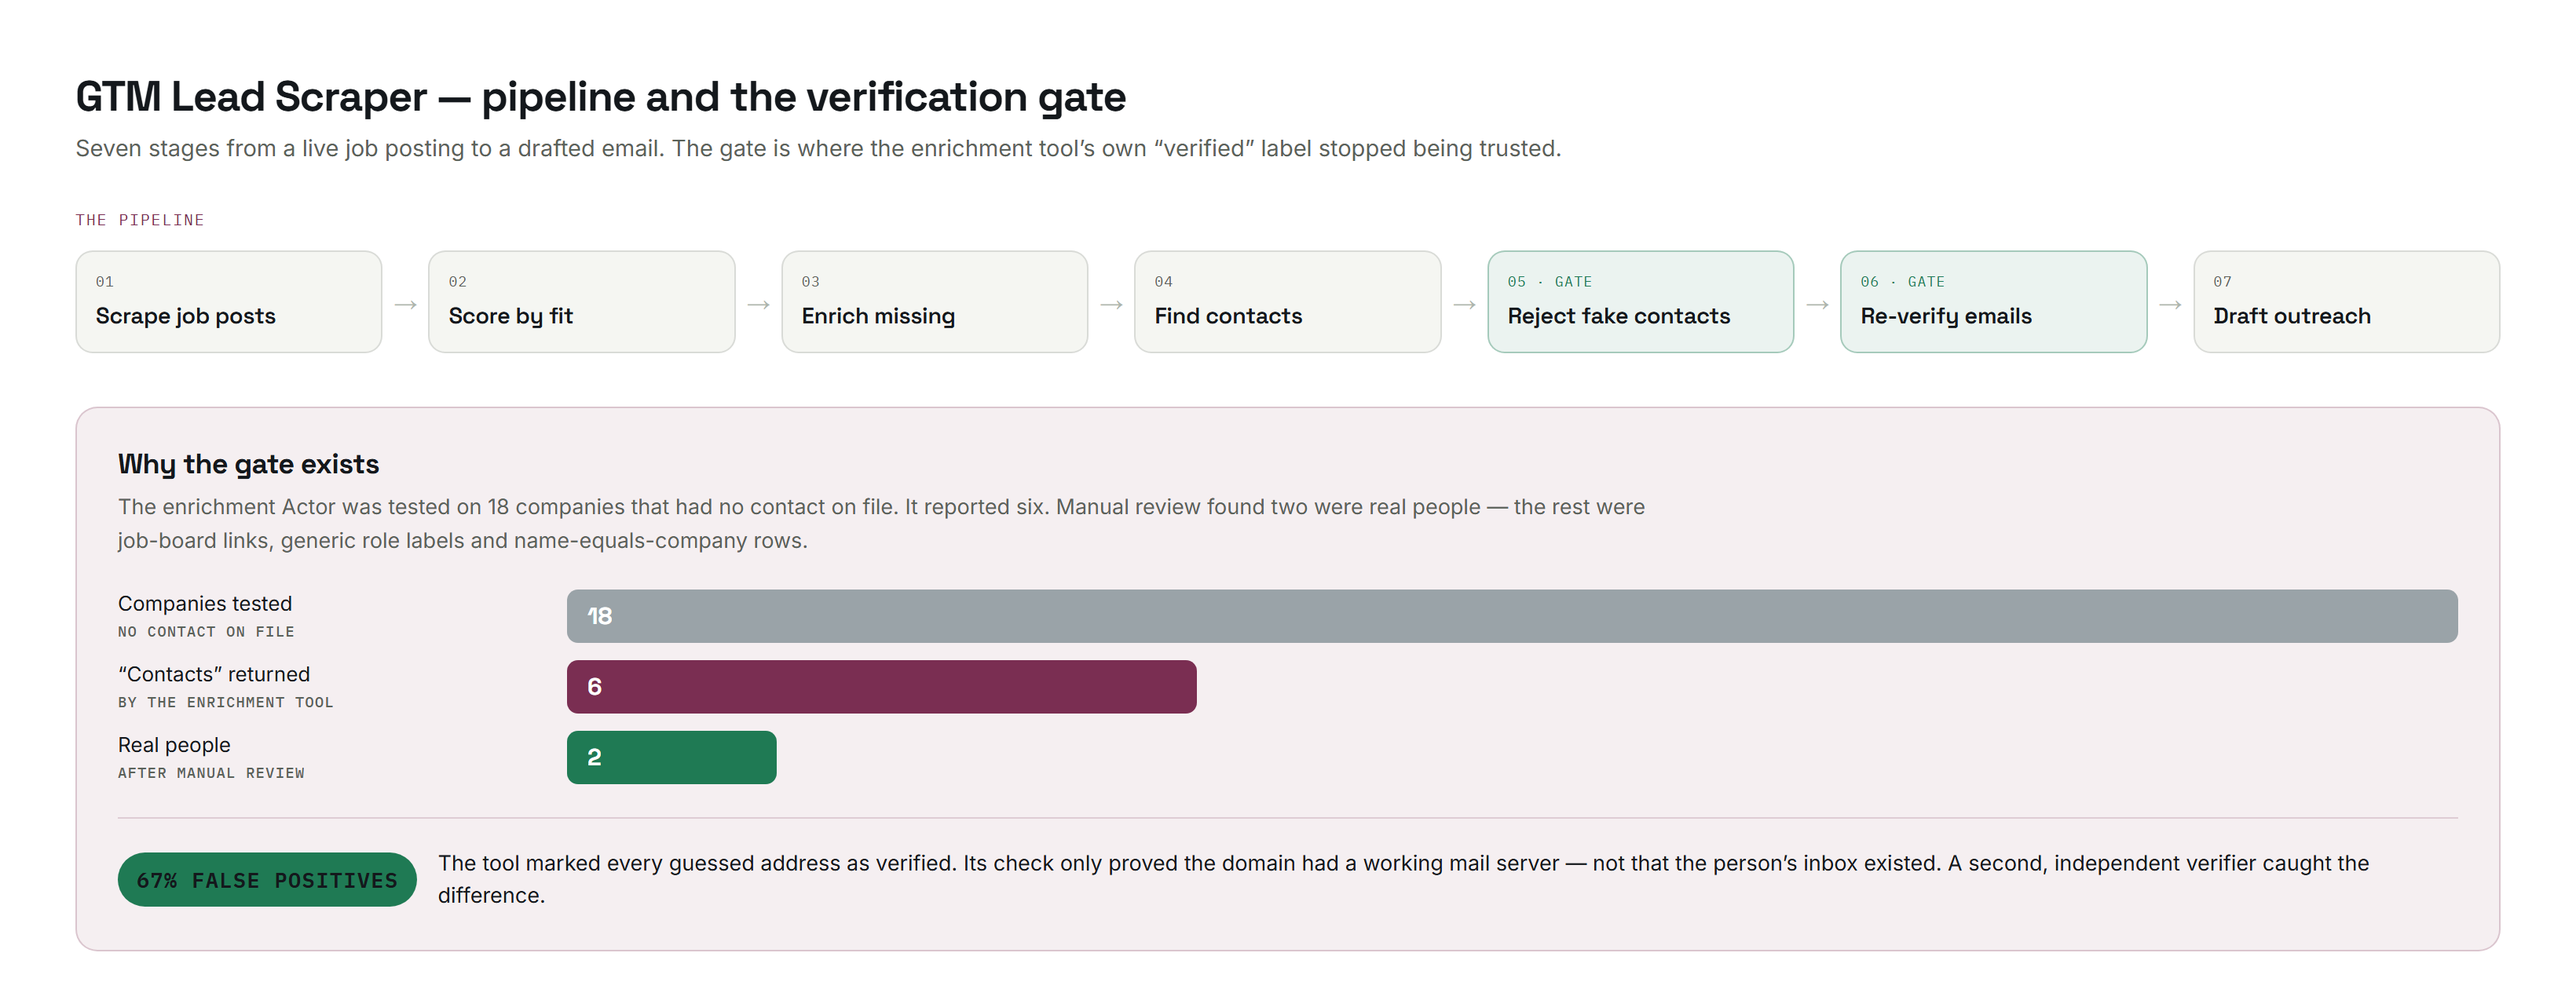
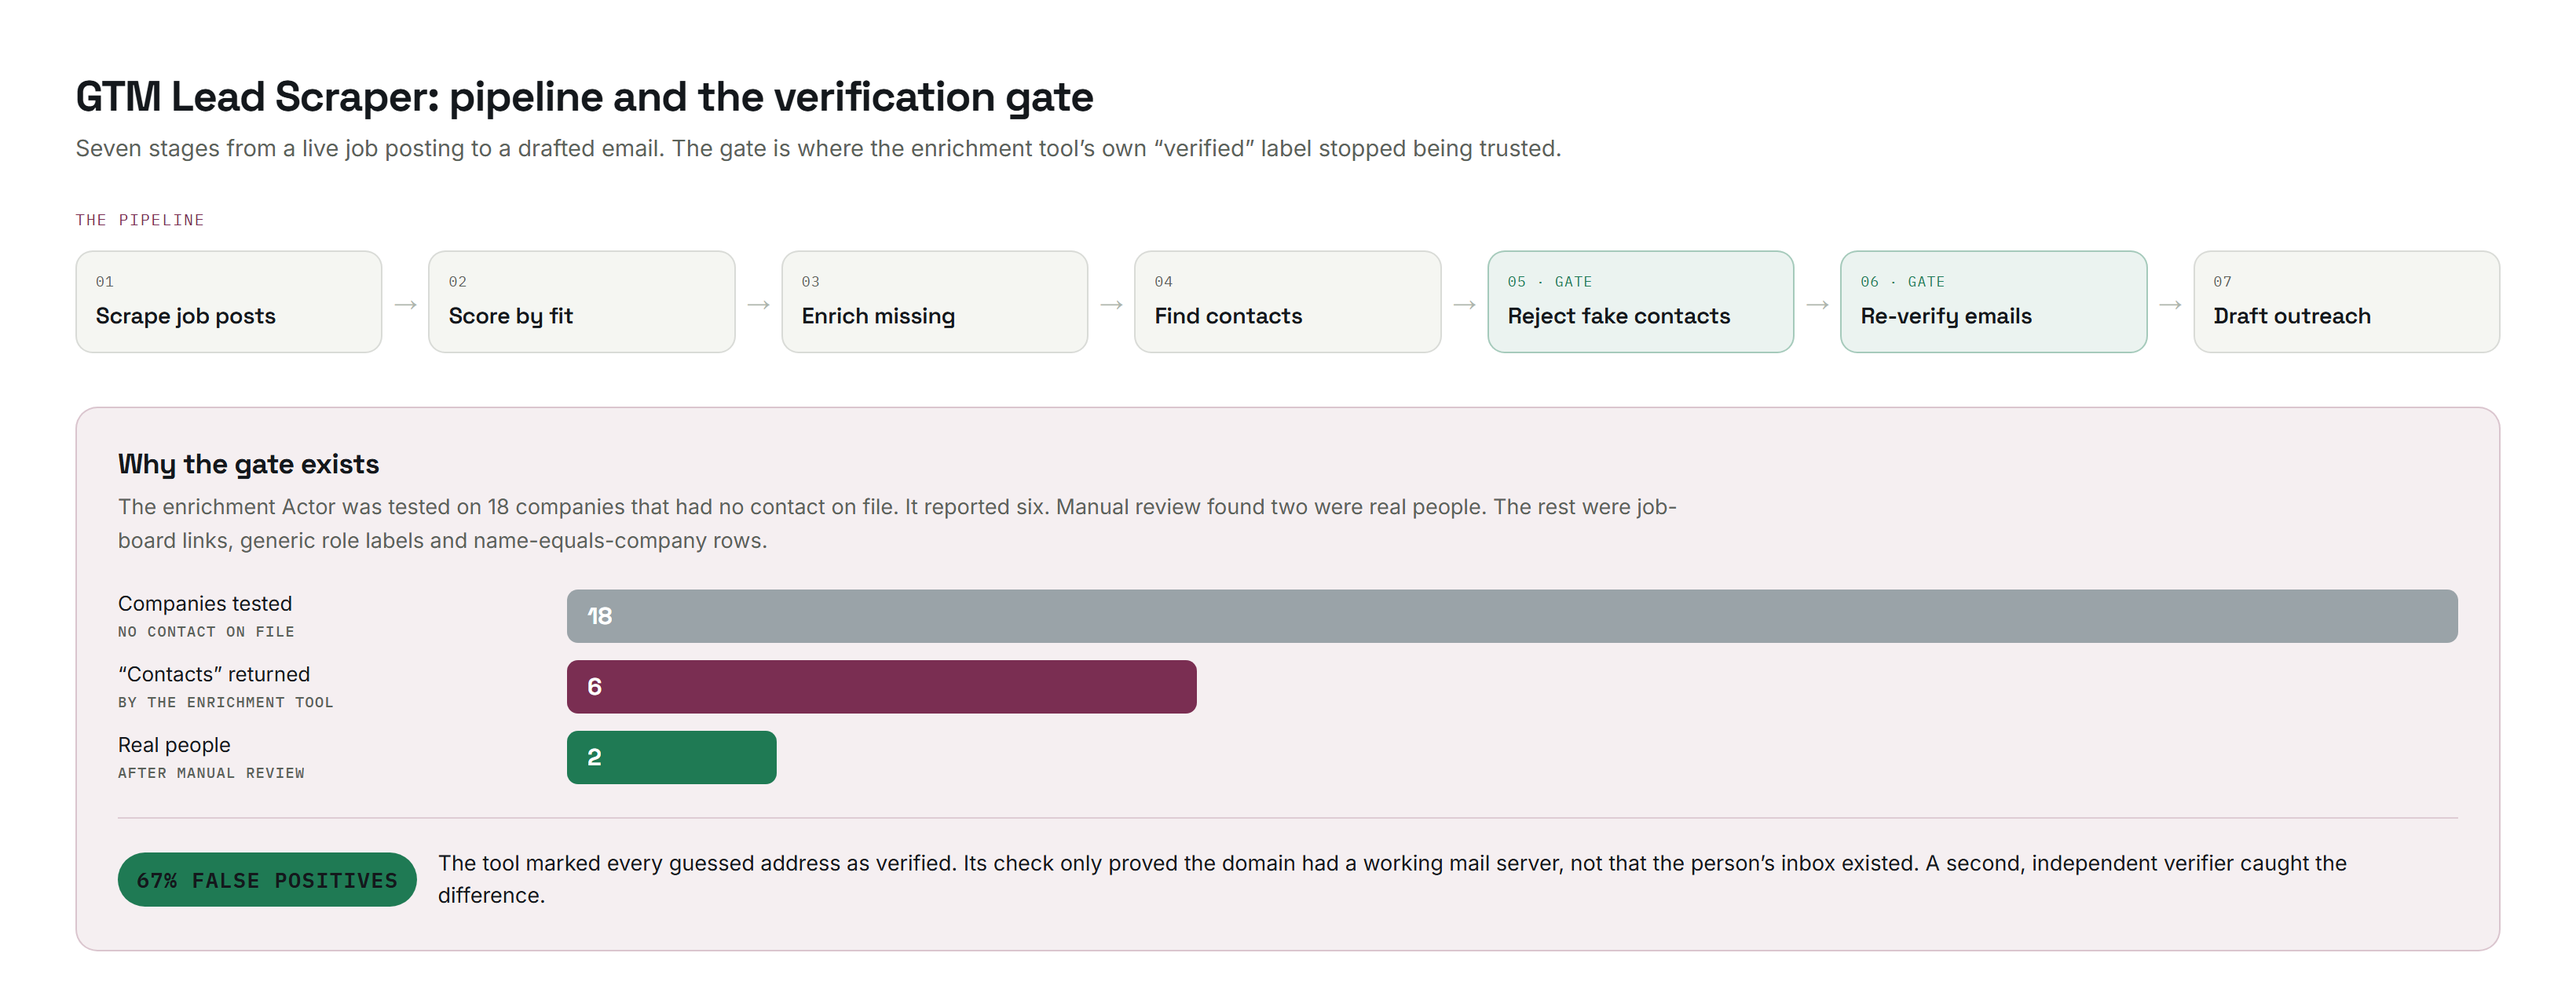
Drop the em dashes from the site copy
Em dashes read as AI boilerplate, so every one is gone: eight in the
markup and three baked into the pipeline diagram, which is re-rendered.

The sentences were rewritten rather than having the character swapped
out, so the parentheticals became colons, commas or separate sentences
and nothing reads clipped.

diff --git a/index.html b/index.html
@@ -1168,17 +1168,17 @@
           <h2 class="case-h2">How I built it</h2>
           <ul class="case-bullets">
             <li>Pulled the raw list out of AI Ark: 8,079 contacts, every title and company size included.</li>
-            <li>Screened for deliverability first &mdash; email status and SMTP checks &mdash; so no copy was written for an address that would bounce.</li>
+            <li>Screened for deliverability first, running email status and SMTP checks, so no copy was written for an address that would bounce.</li>
             <li>Filtered to nonprofit company type, dropping the vendors and other organisation types the same export had swept in.</li>
-            <li>Narrowed to decision-maker titles only &mdash; CEO, Executive Director, Director, Founder, VP &mdash; because that is where budget authority sits.</li>
+            <li>Narrowed to decision-maker titles only: CEO, Executive Director, Director, Founder, VP. That is where budget authority sits.</li>
             <li>Collapsed duplicates so each organisation appears once instead of several times, which left roughly 2,000 contacts worth emailing.</li>
             <li>Hand-checked a small sample and rendered the real copy against it before anything went near a sequencer.</li>
-            <li>Wrote three competing angles &mdash; lapsed donors, time saved, peer comparison &mdash; so the angle could be tested rather than guessed.</li>
+            <li>Wrote three competing angles: lapsed donors, time saved, peer comparison. That way the angle could be tested rather than guessed.</li>
             <li>Drafted three tone variants of the same email (direct, story, mission) so voice could be tested separately from angle.</li>
             <li>Generated the subject and body straight into the export as <code>subject_1</code> and <code>email_1</code> columns, so the file imports into Instantly or Smartlead without hand-editing.</li>
             <li>Built a reply-triage agent in n8n that classifies every reply as POSITIVE, NEGATIVE, REFERRAL, LATER, AUTO_REPLY or NEUTRAL.</li>
             <li>Routed positives to Slack for a same-day response; everything else logs to a sheet, and negatives are flagged DO NOT CONTACT so they cannot re-enter a sequence.</li>
-            <li>Ran two campaigns, one touch point each, across the full 2,000 &mdash; which returned 3 positive replies.</li>
+            <li>Ran two campaigns, one touch point each, across the full 2,000. They returned 3 positive replies.</li>
             <li>Kept every sample recipient shown here fictional, so the build can be published without exposing a single real prospect.</li>
           </ul>
         </div>
@@ -1330,7 +1330,7 @@ Regards,
       <h2 class="case-h2 case-h2--wide">What it produced</h2>
       <div class="shot-stack">
         <img src="assets/screens/lead-scraper-pipeline-gate.png" alt="Diagram: the seven-stage Lead Scraper pipeline, and why the verification gate exists" loading="lazy">
-        <div class="shot-caption">Pipeline diagram. The two gate stages are the ones that mattered: of six &ldquo;contacts&rdquo; the enrichment tool returned across 18 companies, manual review found two real people &mdash; and every guessed address had been marked verified.</div>
+        <div class="shot-caption">Pipeline diagram. The two gate stages are the ones that mattered: of six &ldquo;contacts&rdquo; the enrichment tool returned across 18 companies, manual review found two real people, and every guessed address had been marked verified.</div>
       </div>
       <div class="page-cta">
         <div class="page-cta-copy">
